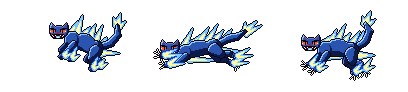
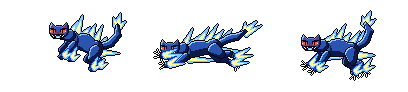
Katzen-Gerüst mit Hals (Kasha, Nekomata, Raijū): Kopf schwebt nicht mehr vor dem Körper; derive.py nutzt Repo-Quellen
Claude-Session: https://claude.ai/code/session_01KhgxT7a5tRTGeQVFkHSAcV

Changed region(s): [[0.7647, 0.4348, 0.8235, 0.5652], [0.1471, 0.3261, 0.2059, 0.4565], [0.4412, 0.4565, 0.4706, 0.587]]

diff --git a/art_src/fable/enemies_4/cat_bakeneko_alt.py b/art_src/fable/enemies_4/cat_bakeneko_alt.py
@@ -1,0 +1,56 @@
+"""Bakeneko: pale ghost cat, arched bristling back, bared fangs, claws. Normal (~50 px). Attack: pounce."""
+from common import *
+import cat as catlib
+
+NAME = 'bakeneko'
+CELL = (128, 84)
+ORG = (68, 76)            # body origin x, baseline y
+NEAR = ('v0', 'v1', 'v2')
+FAR = ('z0', 'v0', 'v1')
+LEG = dict(zip('KmnopYZqWrR', ['K', 'v0', 'v1', 'v2', 'p1', 'y2', 'y3', 'q', 'b3', 'm2', 'm3']))
+
+DEF = dict(dx=0, dy=0, claws=1,
+           hq=(13, -17, 8.4, 8.6), hump=(1, -26, 11, 8.4), chest=(-10, -18, 7.6, 8.4),
+           head=(-34, -31),
+           tail=[(19, -21), (27, -29), (28, -40), (22, -48)],
+           nh=[(14, -14), (11, -7), (18, -4), (15, -1)], nhd=180,
+           fh=[(9, -12), (6, -6), (11, -4), (8, -1)], fhd=180,
+           nf=[(-9, -13), (-10, -7), (-11, -1)], nfd=180,
+           ff=[(-15, -13), (-18, -7), (-20, -1)], ffd=180)
+
+
+def draw(**kw):
+    S = dict(DEF); S.update(kw)
+    return catlib.cat(S, NEAR, FAR, 'v0', LEG, CELL, ORG)
+
+
+WALK = [
+    dict(dy=0, nf=[(-9, -13), (-13, -7), (-17, -1)], ff=[(-14, -13), (-12, -7), (-10, -1)],
+         nh=[(14, -14), (13, -7), (21, -5), (20, -1)], fh=[(9, -12), (4, -7), (8, -4), (4, -1)]),
+    dict(dy=-1, nf=[(-9, -13), (-10, -6), (-11, 0)], ff=[(-14, -13), (-18, -9), (-16, -4)],
+         nh=[(14, -14), (11, -7), (17, -5), (15, 0)], fh=[(9, -12), (8, -7), (14, -8), (13, -4)]),
+    dict(dy=0, nf=[(-9, -13), (-7, -7), (-5, -1)], ff=[(-14, -13), (-18, -7), (-22, -1)],
+         nh=[(14, -14), (8, -8), (13, -4), (9, -1)], fh=[(9, -12), (10, -6), (18, -5), (17, -1)]),
+    dict(dy=-1, nf=[(-9, -13), (-14, -9), (-13, -4)], ff=[(-14, -13), (-14, -6), (-15, 0)],
+         nh=[(14, -14), (13, -8), (19, -8), (18, -4)], fh=[(9, -12), (7, -6), (12, -4), (9, 0)]),
+]
+ATTACK = [
+    # crouch, haunches loaded
+    dict(dx=8, dy=0, hq=(14, -13, 8.6, 8.2), hump=(2, -19, 11, 7.6), chest=(-10, -12, 7.6, 7.6), head=(-34, -24),
+         tail=[(21, -16), (30, -20), (36, -29), (35, -39)],
+         nh=[(15, -10), (9, -5), (17, -3), (13, -1)], fh=[(10, -9), (4, -5), (11, -3), (7, -1)],
+         nf=[(-9, -8), (-15, -5), (-19, -1)], ff=[(-14, -8), (-20, -5), (-24, -1)]),
+    # full pounce, claws out
+    dict(dx=-12, dy=-16, claws=2, hq=(16, -14, 8, 7.4), hump=(2, -19, 12, 7), chest=(-12, -19, 7.6, 7.6), head=(-37, -34),
+         tail=[(22, -15), (31, -12), (40, -15), (46, -22)],
+         nh=[(17, -11), (22, -4), (30, -3), (36, 1)], nhd=20, fh=[(13, -9), (19, -1), (27, 1), (32, 5)], fhd=20,
+         nf=[(-12, -15), (-21, -9), (-29, -12)], nfd=190, ff=[(-16, -16), (-26, -14), (-33, -19)], ffd=200),
+    # landing
+    dict(dx=-8, dy=0, claws=2, hq=(13, -18, 8.4, 8.4), hump=(1, -23, 11, 8), chest=(-10, -14, 7.6, 8), head=(-34, -26),
+         tail=[(19, -22), (28, -26), (33, -36), (30, -45)],
+         nh=[(14, -15), (12, -8), (19, -5), (16, -1)], fh=[(9, -13), (6, -7), (12, -4), (9, -1)],
+         nf=[(-9, -9), (-14, -5), (-18, -1)], ff=[(-14, -9), (-20, -5), (-23, -1)]),
+]
+
+if __name__ == '__main__':
+    export(NAME, draw, WALK, ATTACK)

diff --git a/art_src/fable/enemies_4/cat.py b/art_src/fable/enemies_4/cat.py
@@ -114,9 +114,13 @@ def cat(S, NEAR, FAR, ln, LEG, cell, org, fire=None, bristle=True):
     p.form(L(pts[0][0], pts[0][1], 6.2, pts[1][0], pts[1][1], 3.6), NEAR, sd=3, hl=1)
     c.stamp(p, ln)
     paw(c, pts[-1], S['nhd'], NEAR, ln, S['claws'])
-    # head
-    p = C()
+    # head – mit Hals, damit der Kopf nicht vor dem Körper schwebt
     hx, hy = B(S['head'])
+    hw, hh = max(len(r) for r in HEAD.strip().split('\n')), len(HEAD.strip().split('\n'))
+    p = C()
+    p.form(L(hx + hw * 0.55, hy + hh * 0.7, 4.0, *B((ch[0] - ch[2] * 0.4, ch[1] - ch[3] * 0.5)), 5.6), NEAR, sd=2, hl=1)
+    c.stamp(p, ln)
+    p = C()
     p.grid(int(hx), int(hy), HEAD, LEG)
     c.stamp(p, 'K', ring=False)
     # near front leg

diff --git a/art_src/fable/derive.py b/art_src/fable/derive.py
@@ -20,7 +20,8 @@ JOBS = {
 
 def run(name):
     folder, mod, fn, cols = JOBS[name]
-    d = os.path.join(BASE, folder) if folder else BASE
+    repo = os.path.join(os.path.dirname(os.path.abspath(__file__)), folder)
+    d = repo if folder and os.path.isdir(repo) else (os.path.join(BASE, folder) if folder else BASE)   # Repo-Quellen zuerst
     os.chdir(d)
     sys.path.insert(0, d)
     m = importlib.import_module(mod)

diff --git a/art_src/fable/enemies_4/nekomata.py b/art_src/fable/enemies_4/nekomata.py
@@ -2,7 +2,7 @@
 Angriff: Sprung mit gespreizten Krallen, Schwänze lodern."""
 from common import *
 import cat as catlib
-import bakeneko as bk
+import cat_bakeneko_alt as bk  # Gerüst der alten Bakeneko (die neue liegt in enemies_6)
 
 NAME = 'nekomata'
 CELL = bk.CELL
